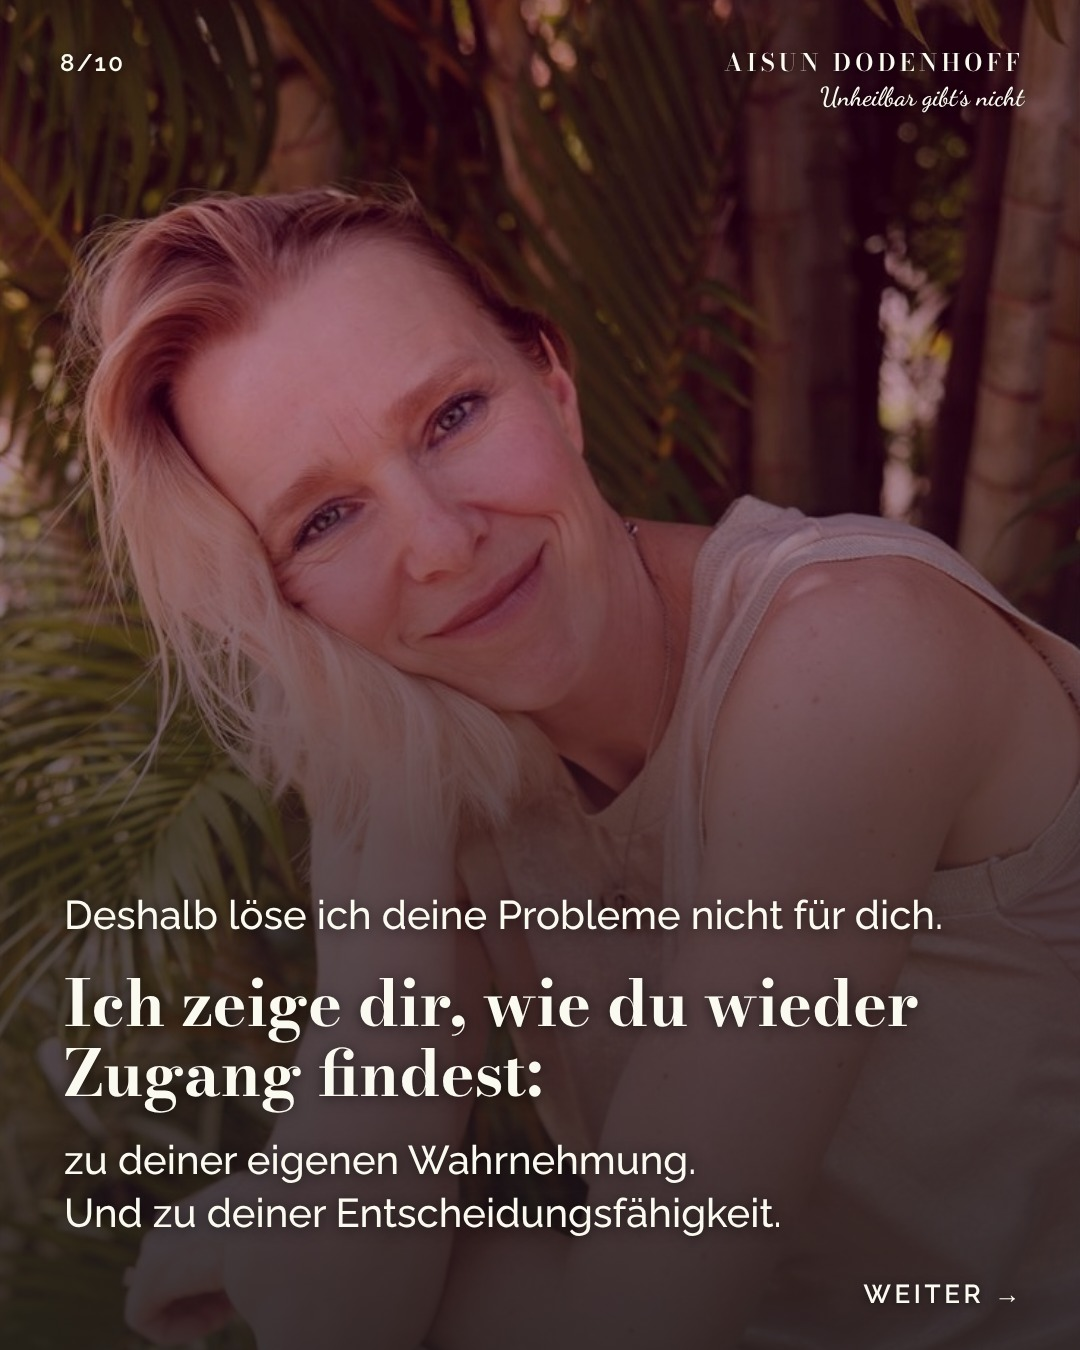
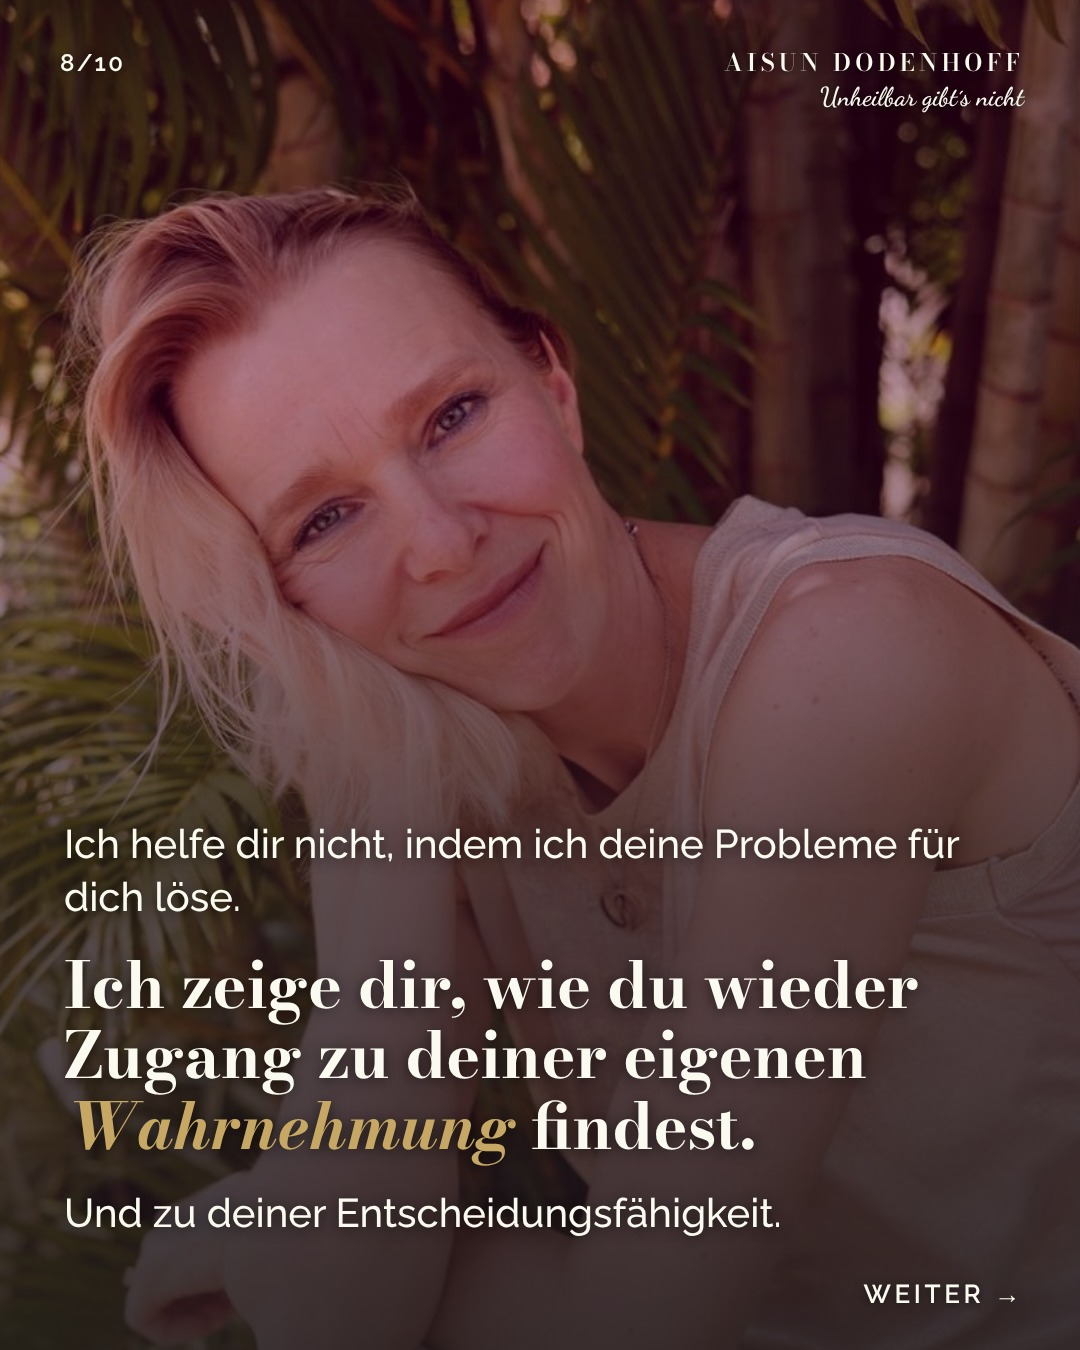
Karussell Selbstvorstellung: KI-Klang raus, Aisuns Originalsätze; Lernzeile

Changed region(s): [[0.0611, 0.6222, 0.8556, 0.8711], [0.8556, 0.6222, 0.8861, 0.6533]]

diff --git a/content/entwuerfe/ueber-mich-story/gen.py b/content/entwuerfe/ueber-mich-story/gen.py
@@ -2,16 +2,16 @@ import sys
 P="/home/user/ceo-table/content/entwuerfe/ueber-mich/fotos/"
 # (foto, bg-pos, overlay, anker, html)
 S=[
- ("f05.jpg","50% 18%",.30,"b",'<div class="q">„Darm<br>entfernen.“</div><p>Das war die Empfehlung.<br>Nach über 20 Jahren Colitis ulcerosa.</p><p class="h">Ich habe <em>Stopp</em> gesagt.</p>'),
- ("f04.jpg","50% 15%",.45,"b",'<h2>Nicht, weil ich naiv war.</h2><p>Ich bin Diplom-Psychologin und ausgebildete Psychologische Psychotherapeutin.<br>Ich habe in Kliniken gearbeitet.<br>Ich kannte das System von innen.</p><p class="h"><em>Genau deshalb.</em></p>'),
+ ("f05.jpg","50% 18%",.30,"b",'<div class="q">„Darm<br>entfernen.“</div><p>Das war am Ende die Empfehlung.<br>Nach über 20 Jahren Colitis ulcerosa.</p><p class="h">Ich habe <em>Stopp</em> gesagt.</p>'),
+ ("f04.jpg","50% 15%",.45,"b",'<h2>Ich kannte das <em>System</em> von innen.</h2><p>Ich bin Diplom-Psychologin und ausgebildete Psychologische Psychotherapeutin. Ich habe in Kliniken gearbeitet, in ambulanten Praxen, im 50-Minuten-Takt, mit Krankenkassenanträgen und Dokumentationspflichten.</p>'),
  ("f09.jpg","50% 10%",.42,"b",'<ul><li>Cortison.</li><li>Medikamente.</li><li>Darmspiegelungen.</li><li>Schübe.</li></ul><p>Über 20 Jahre lang.</p><h2>Schulmedizinisch: <em>unheilbar.</em></h2>'),
- ("f08.jpg","50% 12%",.45,"b",'<p>Ich war in zwei Welten zu Hause: in Kliniken und Praxen. Und als Unternehmensberaterin im <span style="white-space:nowrap">Top-Management</span>, unter anderem bei der Deutschen Bahn.</p><p class="h">In beiden sah ich dasselbe:</p><h2>Die eigentlichen Ursachen bleiben fast immer <em>unsichtbar.</em></h2>'),
- ("f02.jpg","50% 45%",.50,"t",'<p>In der Therapie wurde ein Symptom behandelt.<br>In der Beratung eine Struktur optimiert.</p><h2>Aber <em>warum</em> ist das überhaupt entstanden?</h2><p>Was will das System eigentlich sagen?<br>Ich habe diese Frage gestellt.</p>'),
- ("f06.jpg","50% 15%",.45,"b",'<div class="yr">2016.</div><p>Ich lerne Uwe Albrecht und innerwise kennen.</p><p class="h">In wenigen Tagen erlebe ich eine Tiefe, die ich in Jahren psychotherapeutischer Ausbildung nicht gesehen hatte.</p>'),
- ("f14.jpg","50% 15%",.45,"b",'<p>Ich habe energetisch gearbeitet.<br>Nicht von heute auf morgen,<br>mit Hilfe anderer energetischer Coaches.</p><h2>Und ich habe meine Colitis <em>geheilt.</em></h2><p>Heute habe ich keine Beschwerden mehr.</p><p class="s">Meine Geschichte. Keine Anleitung.</p>'),
- ("f07.jpg","50% 12%",.32,"b",'<p>Deshalb löse ich deine Probleme nicht für dich.</p><h2>Ich zeige dir, wie du wieder Zugang findest:</h2><p>zu deiner eigenen Wahrnehmung.<br>Und zu deiner Entscheidungsfähigkeit.</p>'),
- ("f12.jpg","55% 25%",.34,"b",'<h2 class="m">Du brauchst nicht noch eine Expertin.</h2><h2 class="m"><em>Werde die Expertin für dich selbst.</em></h2>'),
- ("f15.jpg","50% 14%",.40,"b",'<p>Wie diese Heilung wirklich passiert ist, erzähle ich in einem Interview.</p><p class="h">Kommentiere</p><div class="kw">INTERVIEW</div><p>und ich schick es dir.</p>'),
+ ("f08.jpg","50% 12%",.45,"b",'<p>Gleichzeitig war ich viele Jahre Unternehmensberaterin, unter anderem bei der Deutschen Bahn, auf <span style="white-space:nowrap">Top-Management-Ebene</span>. Zwei sehr unterschiedliche Welten.</p><p class="h">Und in beiden dieselbe Beobachtung:</p><h2>Die eigentlichen Ursachen bleiben fast immer <em>unsichtbar.</em></h2>'),
+ ("f02.jpg","50% 45%",.50,"t",'<p>In der Therapie wurde ein Symptom behandelt. In der Beratung eine Struktur optimiert.</p><h2>Aber <em>warum</em> ist das überhaupt entstanden?</h2><p>Was will das System eigentlich sagen? Die Frage stellte kaum jemand. Ich habe sie gestellt.</p>'),
+ ("f06.jpg","50% 15%",.45,"b",'<div class="yr">2016.</div><p>Da bin ich zum ersten Mal Uwe Albrecht und innerwise begegnet.</p><p class="h">In wenigen Tagen habe ich eine Tiefe erlebt, die ich in Jahren psychotherapeutischer Ausbildung nicht gesehen hatte.</p>'),
+ ("f14.jpg","50% 15%",.45,"b",'<p>Ich habe energetisch gearbeitet.<br>Nicht von heute auf morgen,<br>mit Hilfe anderer energetischer Coaches.</p><h2>Und ich habe meine Colitis <em>geheilt.</em></h2><p class="s">Das ist meine Geschichte, keine Anleitung.</p>'),
+ ("f07.jpg","50% 12%",.32,"b",'<p>Ich helfe dir nicht, indem ich deine Probleme für dich löse.</p><h2>Ich zeige dir, wie du wieder Zugang zu deiner eigenen <em>Wahrnehmung</em> findest.</h2><p>Und zu deiner Entscheidungsfähigkeit.</p>'),
+ ("f12.jpg","55% 25%",.34,"b",'<h2 class="m">Der wichtigste Experte für deinen Körper <em>bist du selbst.</em></h2>'),
+ ("f15.jpg","50% 14%",.40,"b",'<p>In einem Interview habe ich sehr offen erzählt, wie diese Heilung wirklich passiert ist.</p><p class="h">Kommentiere</p><div class="kw">INTERVIEW</div><p>und ich schick es dir.</p>'),
 ]
 css="""*{margin:0;padding:0;box-sizing:border-box}html,body{width:1080px;height:1350px;overflow:hidden;background:#1A1A1A}
 .bg{position:absolute;inset:0;width:100%;height:100%;object-fit:cover}

diff --git a/content/entwuerfe/ueber-mich-story/karussell-text.md b/content/entwuerfe/ueber-mich-story/karussell-text.md
@@ -172,27 +172,23 @@ Layout: „KOMPASS“ groß in Raleway-Versalien auf goldener Pill mit dunkler S
 
 ---
 
-## 4. Caption (nach `reel-und-caption-regeln.md`)
+## 4. Caption (nach `reel-und-caption-regeln.md`, überarbeitet 6.11.: Aisuns eigene Newsletter-Sätze statt Neuformulierung)
 
-🤍 Ich kannte beide Seiten.
-
-🏥 Ich habe in Kliniken gearbeitet, in Praxen, im 50-Minuten-Takt.
-
-💼 Und gleichzeitig viele Jahre als Unternehmensberaterin, bis ins Top-Management.
-
-🔍 In beiden Welten habe ich dasselbe gesehen: Die eigentlichen Ursachen bleiben fast immer unsichtbar.
-
-🩺 Und dann war da mein eigener Körper. Über 20 Jahre Colitis ulcerosa. Cortison, Schübe, Darmspiegelungen. Am Ende die Empfehlung: Darm entfernen.
+🤍 „Darm entfernen.“ Das war am Ende die Empfehlung. Nach über 20 Jahren Colitis ulcerosa.
 
 ✋ Da habe ich Stopp gesagt.
 
-🌿 Ich habe energetisch gearbeitet. Nicht von heute auf morgen, und mit Hilfe anderer energetischer Coaches. Heute habe ich keine Beschwerden mehr.
+🏥 Ich bin Diplom-Psychologin und ausgebildete Psychologische Psychotherapeutin. Ich habe in Kliniken gearbeitet, in ambulanten Praxen, im 50-Minuten-Takt. Und viele Jahre als Unternehmensberaterin, unter anderem bei der Deutschen Bahn. Zwei sehr unterschiedliche Welten, und in beiden dieselbe Beobachtung: Die eigentlichen Ursachen bleiben fast immer unsichtbar.
 
-⚠ Ich erzähle meine Geschichte, keine Anleitung. Energetische Arbeit ersetzt keine ärztliche Hilfe. Entscheidungen über Medikamente oder Operationen triffst du bitte immer gemeinsam mit deiner Ärztin.
+🔍 Die Frage, warum etwas überhaupt entstanden ist, stellte kaum jemand. Ich habe sie gestellt. Und das hat mein Leben verändert.
 
-💡 Heute löse ich deine Probleme nicht für dich. Ich zeige dir, wie du wieder Zugang zu deiner eigenen Wahrnehmung findest. Damit du die Expertin für dich selbst wirst.
+🌿 Ich habe energetisch gearbeitet, nicht von heute auf morgen und mit Hilfe anderer energetischer Coaches, und meine Colitis geheilt.
 
-🎧 Wie diese Heilung wirklich passiert ist, erzähle ich sehr offen in einem Interview.
+⚠ Das ist meine Geschichte, keine Anleitung. Energetische Arbeit ersetzt keine ärztliche Hilfe. Triff Entscheidungen über Medikamente oder Operationen bitte immer gemeinsam mit deiner Ärztin oder deinem Arzt.
+
+💡 Ich helfe dir nicht, indem ich deine Probleme für dich löse. Ich zeige dir, wie du wieder Zugang zu deiner eigenen Wahrnehmung und Entscheidungsfähigkeit findest. Damit du die Expertin für dich selbst wirst.
+
+🎧 In einem Interview habe ich sehr offen erzählt, wie diese Heilung wirklich passiert ist.
 
 👉 Kommentiere **INTERVIEW** und ich schick es dir.
 

diff --git a/lernen/gelernt.md b/lernen/gelernt.md
@@ -47,3 +47,4 @@ Gilt für alle Agentinnen. Sebastian pflegt diese Datei, eine Zeile pro Erkenntn
 - Visuelle Entwürfe nie ohne Abnahme der fertigen Bilder durch Greta vorlegen. Aisun tritt als seriöse Expertin auf: Überschriften gerade, ruhig; Schräges nur sparsam bei einzelnen Punkten (25.10.2026).
 - 28.10.2026: Nie direkt losbauen, auch nicht bei fertigem Briefing. Erst CEO-Prüfung (Bestand, Überschneidungen, Sinn, Lücken, Herkunft), dann Empfehlung an Aisun, dann bauen. Anlass: Content-Tab gebaut, ohne das leere Trello-Board, die Freigabe-Pakete und Sinas Wochentags-Daten zu prüfen.
 - 2.11.2026: Bei Funnel-, Mail- und Anzeigenfragen erst das Gesamtsystem einordnen (Anzeigen → Aufwärmen → Launch → Folgeprodukte, was soll jeder Teil leisten?), dann Details. Eine Anzeigen-Bilanz nie ohne den Launch bewerten. Aisun will Entscheidungen und Zusammenhänge, keine Wording-Listen. Anlass: Nurture-Analyse mit Einzelwörtern und „Gewinn −4.136 €“ ohne Launch-Bezug.
+- 2026-11-06 – KI-Klang vermeiden (Aisun): Wenn Aisun einen eigenen Text liefert (Newsletter, Interview), die Slides und die Caption aus ihren Originalsätzen bauen, nicht neu formulieren. Kein „Nicht X, sondern Y“, kein „Genau deshalb.“, keine Erzählung im Präsens („Ich lerne … kennen“), keine selbst erfundenen Zusatzsätze. Vor Vorlage jede Zeile gegen den Originaltext prüfen.
